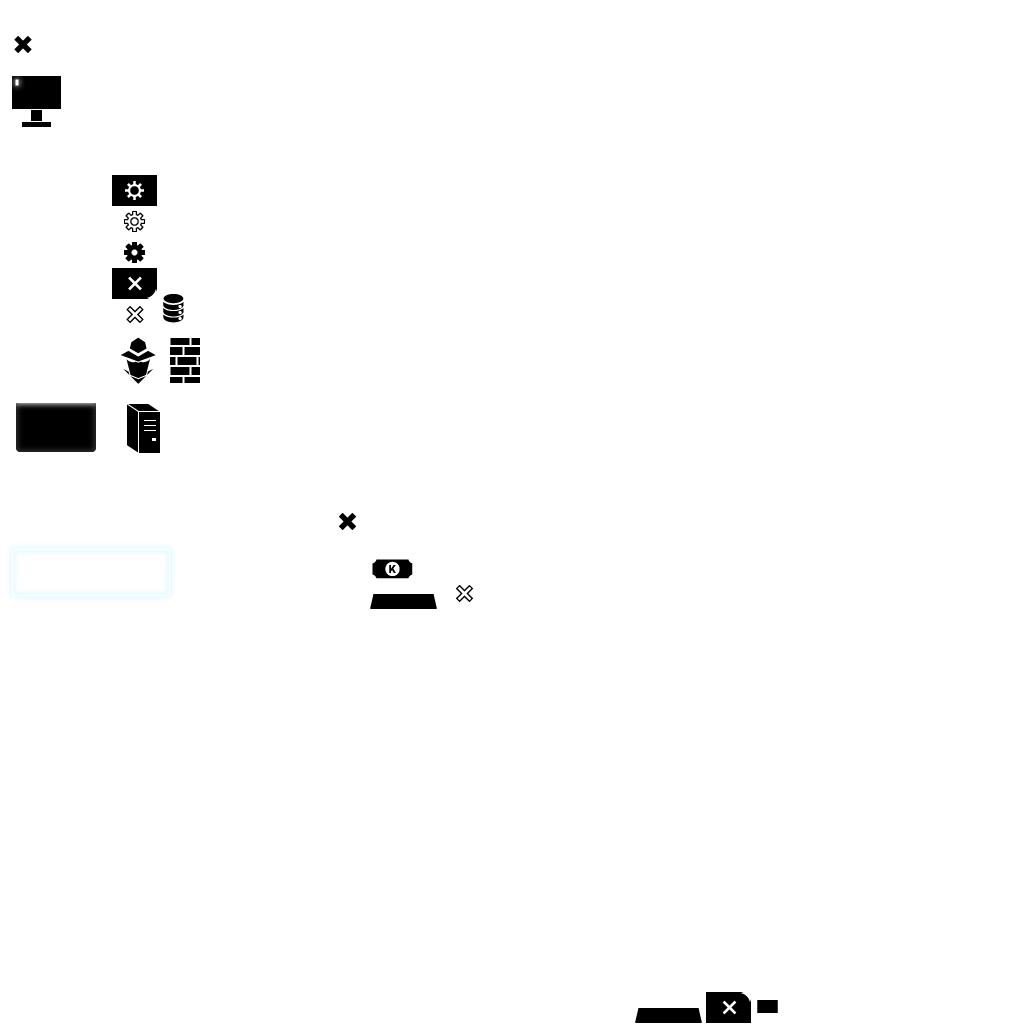
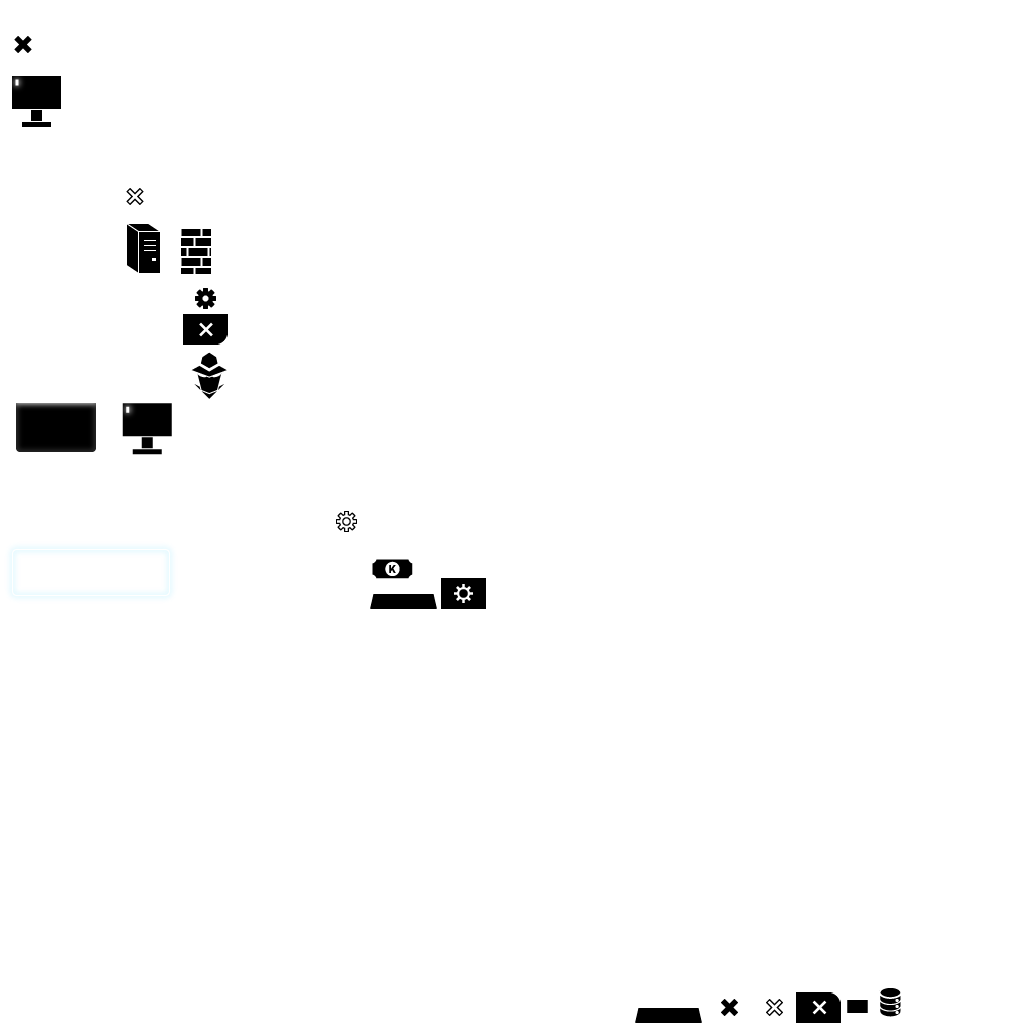
added trace widget.

diff --git a/core/src/com/ray3k/silium/GameScreen.java b/core/src/com/ray3k/silium/GameScreen.java
@@ -50,10 +50,13 @@ public class GameScreen implements Screen {
     private boolean vulnerabilityModule;
     private static Array<String> kredditCards;
     private static String ipAddress;
+    private static float bruteTime = 5;
+    private static float vulTime = 1;
+    private static float traceTime = 100;
     
     @Override
     public void show() {
-        proxies = 3;
+        proxies = 10;
         kreddits = 0;
         firewalls = 2;
         dataPoints = 0;
@@ -822,6 +825,12 @@ public class GameScreen implements Screen {
                 returnValue += "{FASTER}Type the account number below or \"exit\" to quit\n";
             } else if (text.equalsIgnoreCase("exit")) {
                 if (tab == tab.TTY1) {
+                    final Container container = root.findActor("network-map-container");
+                    container.setColor(1,1,1,0);
+                    NetworkMapWidget networkMapWidget = new NetworkMapWidget(servers, skin);
+                    container.setActor(networkMapWidget);
+                    container.addAction(Actions.fadeIn(1f));
+                    
                     tty1Messages.clear();
                     createTTY1();
                 }
@@ -863,13 +872,24 @@ public class GameScreen implements Screen {
     
     private void initiateTrace() {
         Core.instance.playSound("alert");
-        stage.addAction(Actions.delay(200, new Action() {
+        final Container container = root.findActor("network-map-container");
+        final TraceWidget traceWidget = new TraceWidget(proxies, skin);
+        container.setActor(traceWidget);
+        container.setColor(1,1,1,0);
+        container.addAction(Actions.fadeIn(1f));
+        
+        stage.addAction(Actions.parallel(new TemporalAction(traceTime) {
+            @Override
+            protected void update(float percent) {
+                traceWidget.progressBar.setValue(1-percent);
+            }
+        }, Actions.delay(traceTime, new Action() {
             final Server myServer = connectedServer;
             @Override
             public boolean act(float delta) {
                 if (tty1Mode == TtyMode.SERVER && connectedServer == myServer || myServer.filePaths.contains("log.txt",false)) {
                     Core.instance.playSound("lose");
-                    
+            
                     firewalls--;
                     updateCounterUI();
                     if (firewalls < 0) {
@@ -922,12 +942,12 @@ public class GameScreen implements Screen {
                         }));
                     } else if (tty1Mode == TtyMode.NETWORK) {
                         tty1Messages.add("You must delete the log.txt file before exiting the server. Logging into servers or reading files creates entries in the log.");
-    
+                
                         Table subTable = root.findActor("tty1-message-table");
                         for (Actor actor : subTable.getChildren()) {
                             ((TypingLabel) actor).skipToTheEnd();
                         }
-    
+                
                         subTable.row();
                         TypingLabel typingLabel = new TypingLabel(tty1Messages.get(tty1Messages.size - 1), skin);
                         typingLabel.setWrap(true);
@@ -936,7 +956,7 @@ public class GameScreen implements Screen {
                 }
                 return true;
             }
-        }));
+        })));
     }
     
     public void updateCounterUI() {
@@ -1074,7 +1094,7 @@ public class GameScreen implements Screen {
     private void animateBruteForce(final Server server) {
         SequenceAction sequenceAction = new SequenceAction();
         
-        for (int i = 0; i < 200; i++) {
+        for (int i = 0; i < 10 * bruteTime; i++) {
             if (tab == Tab.TTY1) {
                 sequenceAction.addAction(new Action() {
                     @Override

diff --git a/core/src/com/ray3k/silium/TraceWidget.java b/core/src/com/ray3k/silium/TraceWidget.java
@@ -1,0 +1,58 @@
+package com.ray3k.silium;
+
+import com.badlogic.gdx.scenes.scene2d.Actor;
+import com.badlogic.gdx.scenes.scene2d.ui.*;
+import com.badlogic.gdx.scenes.scene2d.utils.ChangeListener;
+import com.badlogic.gdx.utils.Array;
+import com.badlogic.gdx.utils.Scaling;
+
+public class TraceWidget extends Stack {
+    private Skin skin;
+    public ProgressBar progressBar;
+    private Array<Image> proxies;
+    
+    public TraceWidget(final int numProxies, final Skin skin) {
+        this.skin = skin;
+        proxies = new Array<Image>();
+    
+        Table table = new Table();
+        add(table);
+        
+        progressBar = new ProgressBar(0, 1, .01f, true, skin);
+        progressBar.setAnimateDuration(.25f);
+        table.add(progressBar).growY();
+    
+        table = new Table();
+        add(table);
+        
+        table.add().expand();
+        table.row();
+        
+        for (int i = 0; i < numProxies; i++) {
+            Image image = new Image(skin, "icon-proxy");
+            image.setScaling(Scaling.none);
+            image.setColor(skin.getColor("ui"));
+            table.add(image).expand();
+            proxies.add(image);
+            table.row();
+        }
+        
+        table.add().expand();
+        table.row();
+        
+        table.add().height(70);
+        
+        progressBar.addListener(new ChangeListener() {
+            @Override
+            public void changed(ChangeEvent event, Actor actor) {
+                for (int i = 0; i < numProxies; i++) {
+                    if (1 - progressBar.getValue() > ((float) i) / numProxies) {
+                        proxies.get(i).setColor(skin.getColor("red"));
+                    } else {
+                        proxies.get(i).setColor(skin.getColor("ui"));
+                    }
+                }
+            }
+        });
+    }
+}

diff --git a/core/src/com/ray3k/silium/NetworkMapWidget.java b/core/src/com/ray3k/silium/NetworkMapWidget.java
@@ -82,7 +82,7 @@ public class NetworkMapWidget extends Table {
             
             table = new Table();
             stack.add(table);
-            label = new Label(server.address + (server.cultist ? "\nCULTIST" : ""), skin, "ip");
+            label = new Label(server.address + (server.cultist ? "\n(CULTIST)" : ""), skin, "ip");
             label.setAlignment(Align.center);
             table.add(label).bottom().expand();
             
